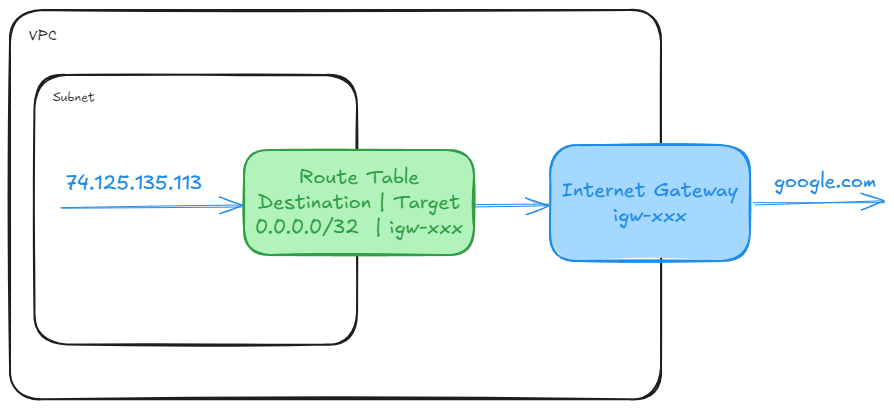
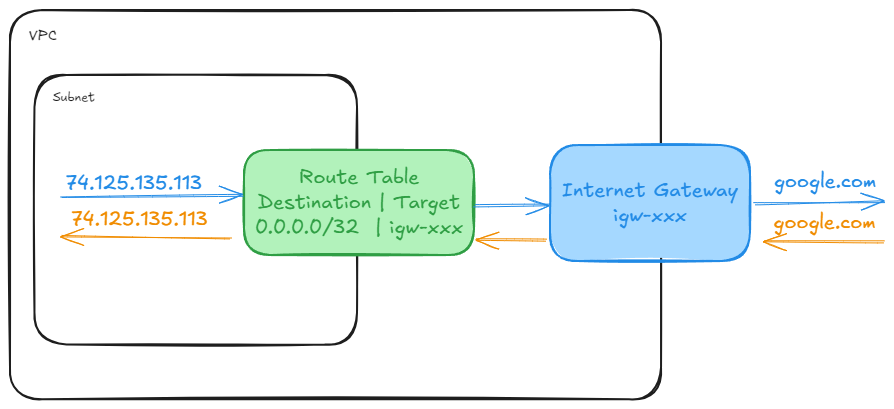
Published multiple files

Changed region(s): [[0.0604, 0.4401, 0.2718, 0.5868], [0.8456, 0.5281, 0.9966, 0.6161], [0.5436, 0.5575, 0.604, 0.6161]]

diff --git a/src/site/notes/aws/vpc/atomic-elements/subnet.md b/src/site/notes/aws/vpc/atomic-elements/subnet.md
@@ -6,7 +6,12 @@
 
 One subnet resides in a single Available Zone, one AZ can have multiple subnets.
 
-#### Subnet types:
+### Subnet Sizing
+
+IPv4 CIDR block size for a subnet is between /28 netmask and /16 netmask.
+The first 4 ip address and the last IP address in each subnet are reserved by AWS.
+
+### Subnet types:
 1. public subnet: has direct route to internet gateway
 2. private subnet: has no direct route to [[aws/vpc/atomic-elements/internet-gateway\|internet-gateway]]; requires [[aws/vpc/atomic-elements/nat-device\|nat-device]] for public internet
 3. VPN-only subnet: has route to [[Site-to-Site VPN\|Site-to-Site VPN]] through [[virtual private gateway\|virtual private gateway]]

diff --git a/src/site/notes/aws/vpc/atomic-elements/internet-gateway.md b/src/site/notes/aws/vpc/atomic-elements/internet-gateway.md
@@ -2,12 +2,15 @@
 {"dg-publish":true,"permalink":"/aws/vpc/atomic-elements/internet-gateway/"}
 ---
 
-#internet_gateway
-
+<br>
 
 
 It is a VPC component that allows communication between VPC and the internet.
 
 It allows traffic to/from internet.
 
-For IPv4, it performs Network Address Translation(NAT).
+Instance always has private IP address and it must have [[aws/vpc/atomic-elements/public-ipv4-address\|public-ipv4-address]] (static or dynamic) to enable communication over the internet.
+
+Internet Gateway applied Network Address Translate(NAT) between private and public/elastic ip address.
+
+![Internet Gateway and NAT.png](/img/user/aws/vpc/png/Internet%20Gateway%20and%20NAT.png)

diff --git a/src/site/notes/aws/vpc/design-cases/A Simple Public Subnet.md b/src/site/notes/aws/vpc/design-cases/A Simple Public Subnet.md
@@ -1,0 +1,12 @@
+---
+{"dg-publish":true,"permalink":"/aws/vpc/design-cases/a-simple-public-subnet/"}
+---
+
+**User Case**: a simple public subnet allowing traffic with the internet
+**Components**: [[aws/vpc/atomic-elements/subnet\|subnet]]  [[aws/vpc/atomic-elements/route-table\|route-table]]  [[aws/vpc/atomic-elements/internet-gateway\|internet-gateway]]
+
+![Public Subnet.png](/img/user/aws/vpc/png/Public%20Subnet.png)
+
+**Security**
+Security of EC2 is controlled by [[aws/vpc/atomic-elements/security-group\|security-group]].
+Security of Subnet is controlled by [[aws/vpc/atomic-elements/network-acls\|network-acls]].

diff --git a/src/site/notes/aws/vpc/design-cases/A Simple Private Subnet with EC2 and RDS.md b/src/site/notes/aws/vpc/design-cases/A Simple Private Subnet with EC2 and RDS.md
@@ -1,0 +1,12 @@
+---
+{"dg-publish":true,"permalink":"/aws/vpc/design-cases/a-simple-private-subnet-with-ec-2-and-rds/"}
+---
+
+**Use Case**: a simple private subnet with AWS services inside talking to each other. 
+**Components**: [[aws/vpc/atomic-elements/subnet\|subnet]]  [[aws/vpc/atomic-elements/route-table\|route-table]] 
+
+![Private Subnet.png](/img/user/aws/vpc/png/Private%20Subnet.png)
+**Security**
+Security of EC2 is controlled by [[aws/vpc/atomic-elements/security-group\|security-group]].
+Security of Subnet is controlled by [[aws/vpc/atomic-elements/network-acls\|network-acls]].
+

diff --git a/src/site/notes/aws/vpc/atomic-elements/public-ipv4-address.md b/src/site/notes/aws/vpc/atomic-elements/public-ipv4-address.md
@@ -1,0 +1,14 @@
+---
+{"dg-publish":true,"permalink":"/aws/vpc/atomic-elements/public-ipv4-address/"}
+---
+
+There are TWO types of public IPv4 addresses on AWS:
+### Elastic IP Address
+a static IPv4 address associated with your AWS account.
+5 Elastic IP address per region per AWS account.
+
+### Public IPv4 address
+auto-assigned from Amazon's pool of public IPv4 addresses, and is not associated with your AWS account. 
+
+
+![Public IPv4 Address.png](/img/user/aws/vpc/excalidraw/Public%20IPv4%20Address.png)

diff --git a/src/site/notes/aws/AWS VPC Ecosystem and Use Cases.md b/src/site/notes/aws/AWS VPC Ecosystem and Use Cases.md
@@ -7,5 +7,5 @@
 The AWS Virtual Private Cloud (VPC) ecosystem enables the creation of well-isolated network sections, supporting both private and public workloads with customizable security and connectivity options.
 
 
-[[aws/vpc/design-cases/A Simple Private VPC with EC2 and RDS\|A Simple Private VPC with EC2 and RDS]]
+[[aws/vpc/design-cases/A Simple Private Subnet with EC2 and RDS\|A Simple Private Subnet with EC2 and RDS]]
 
